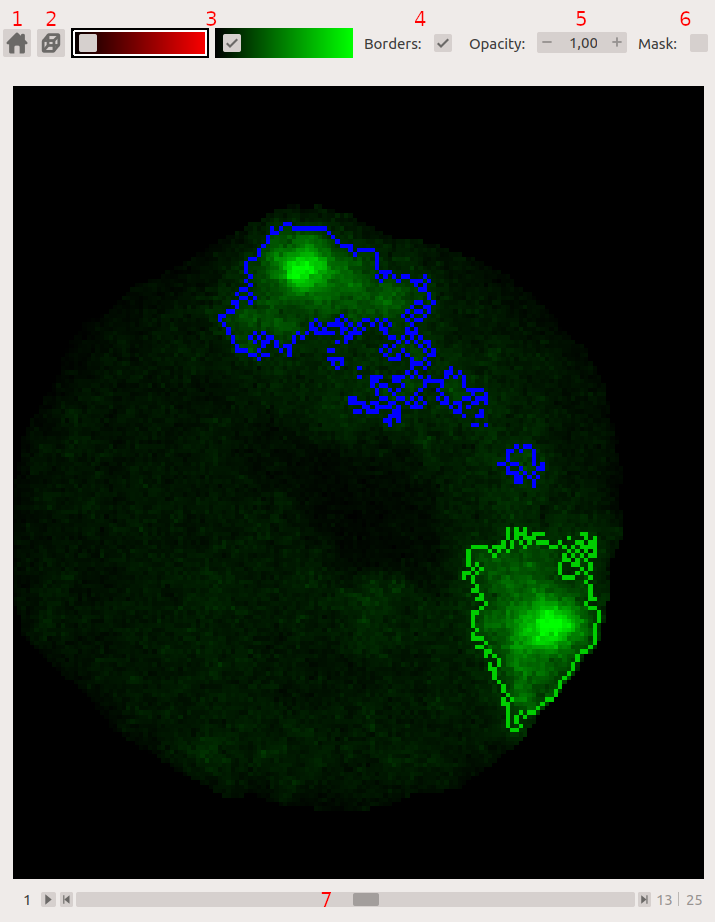
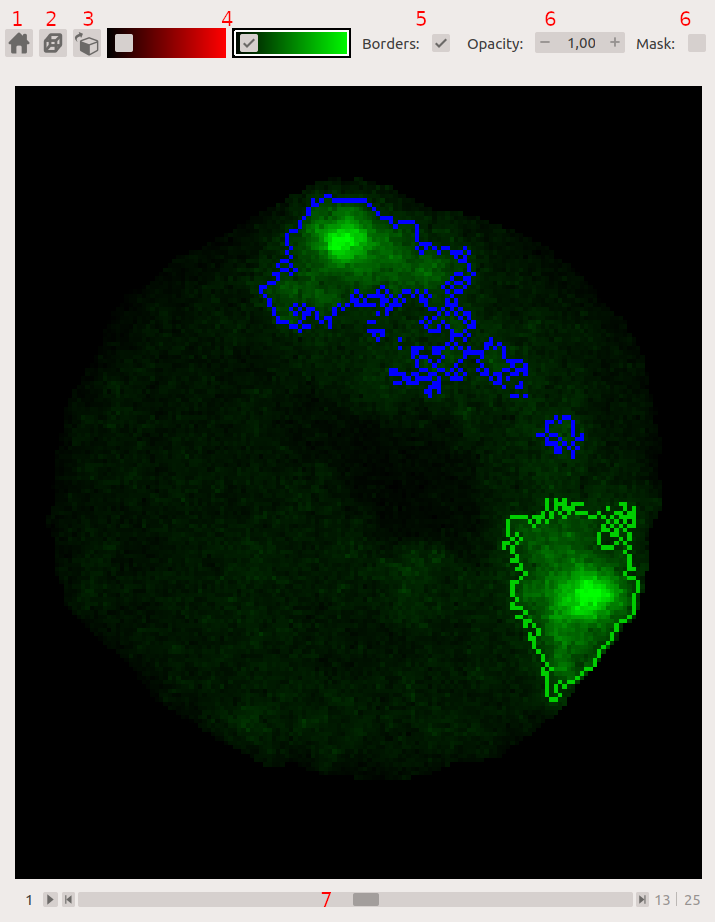
initial update of figures in interface overview

diff --git a/docs/interface-overview/interface-overview.rst b/docs/interface-overview/interface-overview.rst
@@ -142,10 +142,10 @@ Bottons visible in the top row of the main window:
 
 
 
-    .. image::  images/main_window_exec.png
+    .. image:: images/main_window_exec.png
        :alt: Main Roi Analysis GUI
 
-       Settings of segmentation parameters are avaliable on the right side of the main "ROI Analysis" window
+    Settings of segmentation parameters are available on the right side of the main "ROI Analysis" window
 
 
 7.  Saves the current pipeline, which is a sequence of segmentation and masking operations.
@@ -159,7 +159,7 @@ Bottons visible in the top row of the main window:
 
 4.  `Segmentation parameters`_ - This panel is used to set parameters of segmentation
 
-Two chcekboxes placed below the`Segmentation parameters`_ :
+Two checkboxes placed below the`Segmentation parameters`_ :
 
 *   **Hide left panel** - Enables hiding of the left panel. Useful for the tight screen.
 *   **Synchronize view** - Enables synchronization of Zoom, layer, and X, Y position for both `Image view`_ panels
@@ -183,8 +183,8 @@ The third option is to save the current work as a project. Project will contain:
 * All masks and segmentations created in between.
 
 Settings and Measurement
-~~~~~~~~~~~
-This botton enables popup window with 4 tabs: Properties, Color control, Measurements settings, Measurements
+~~~~~~~~~~~~~~~~~~~~~~~~
+This bottom enables popup window with 4 tabs: Properties, Color control, Measurements settings, Measurements
 
 
 
@@ -403,13 +403,14 @@ The zoom of the image can be also changed by Ctrl+Mouse scroll.
 
 1.  Reset Zoom.
 2.  Change to 3D rendering.
-3.  Channel view control. Only Channels with a selected checkbox are visible. `Color map`_ for the current channel
+3.  Side view (support right click)
+4.  Channel view control. Only Channels with a selected checkbox are visible. `Color map`_ for the current channel
     can be selected when clicking in the triangle in the upper right corner
     |channel_select|. This triangle is visible when the mouse is over the widget.
-4.  Mark segmentation only by borders or by masking the whole area.
-5.  Set the opacity of segmentation marking.
-6.  Mark mask visible.
-7.  Control which layer is visible.
+5.  Mark segmentation only by borders or by masking the whole area.
+6.  Set the opacity of segmentation marking.
+7.  Mark mask visible.
+8.  Control which layer is visible.
     If the image contains time data, then a similar
     slider will be visible on the left part of the image.
 
